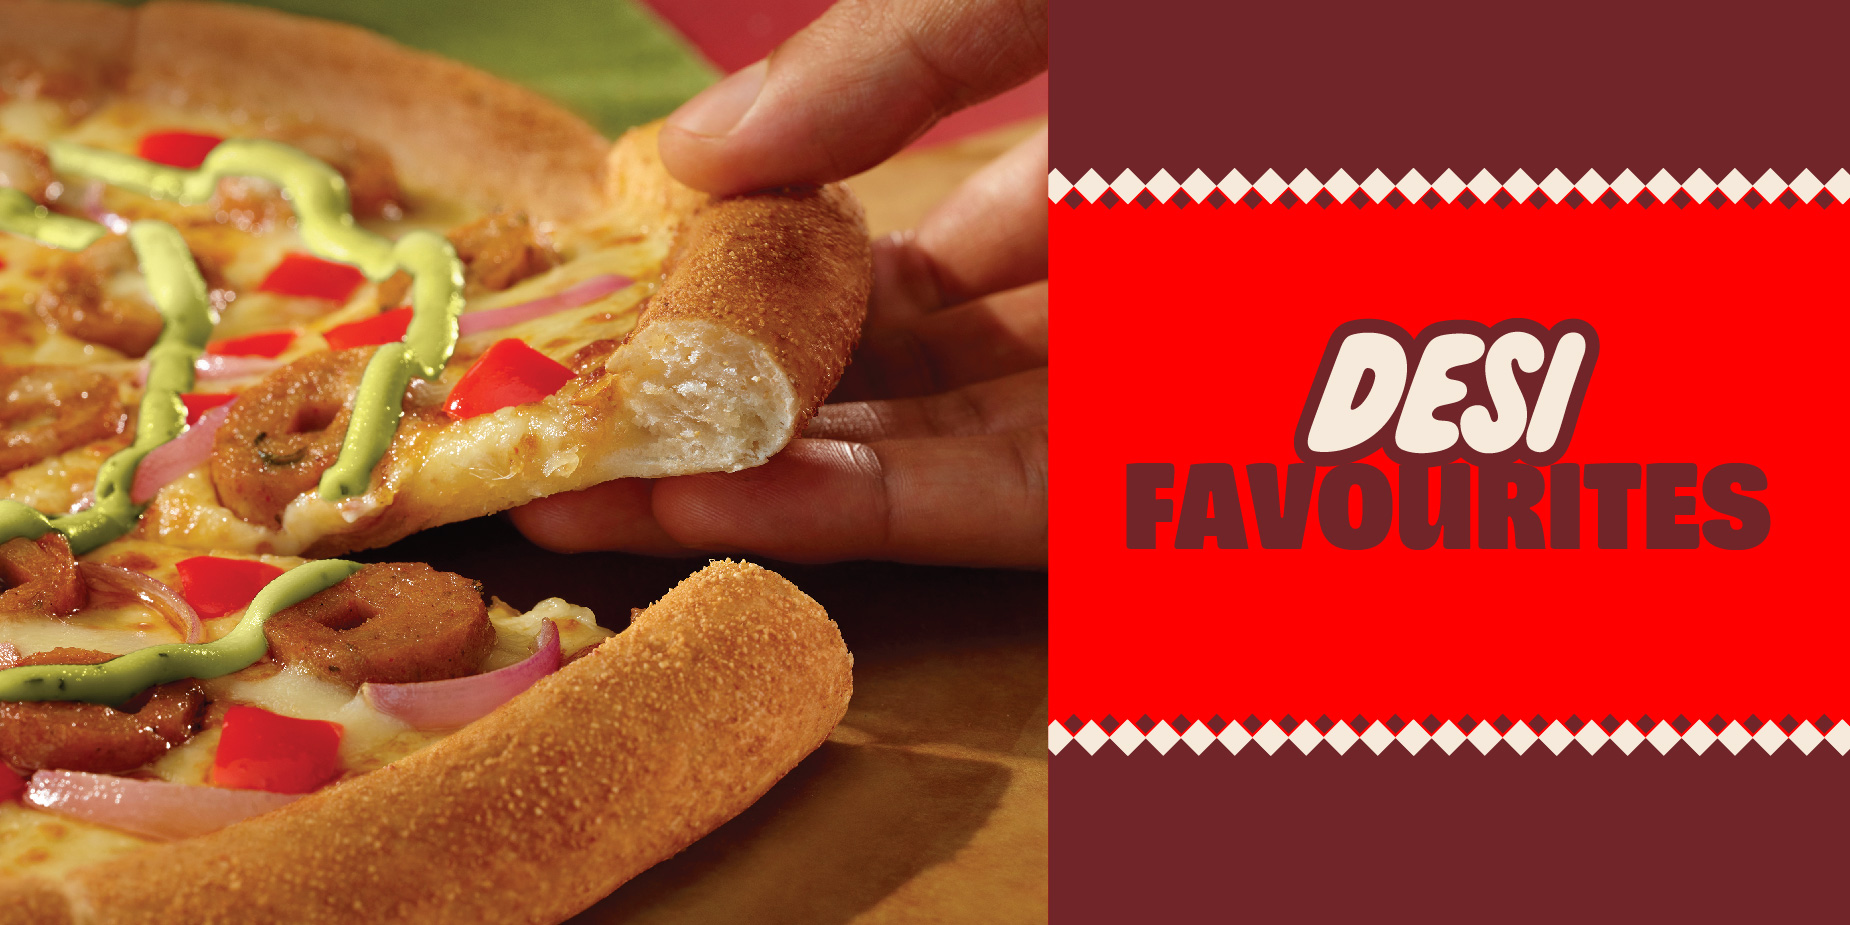
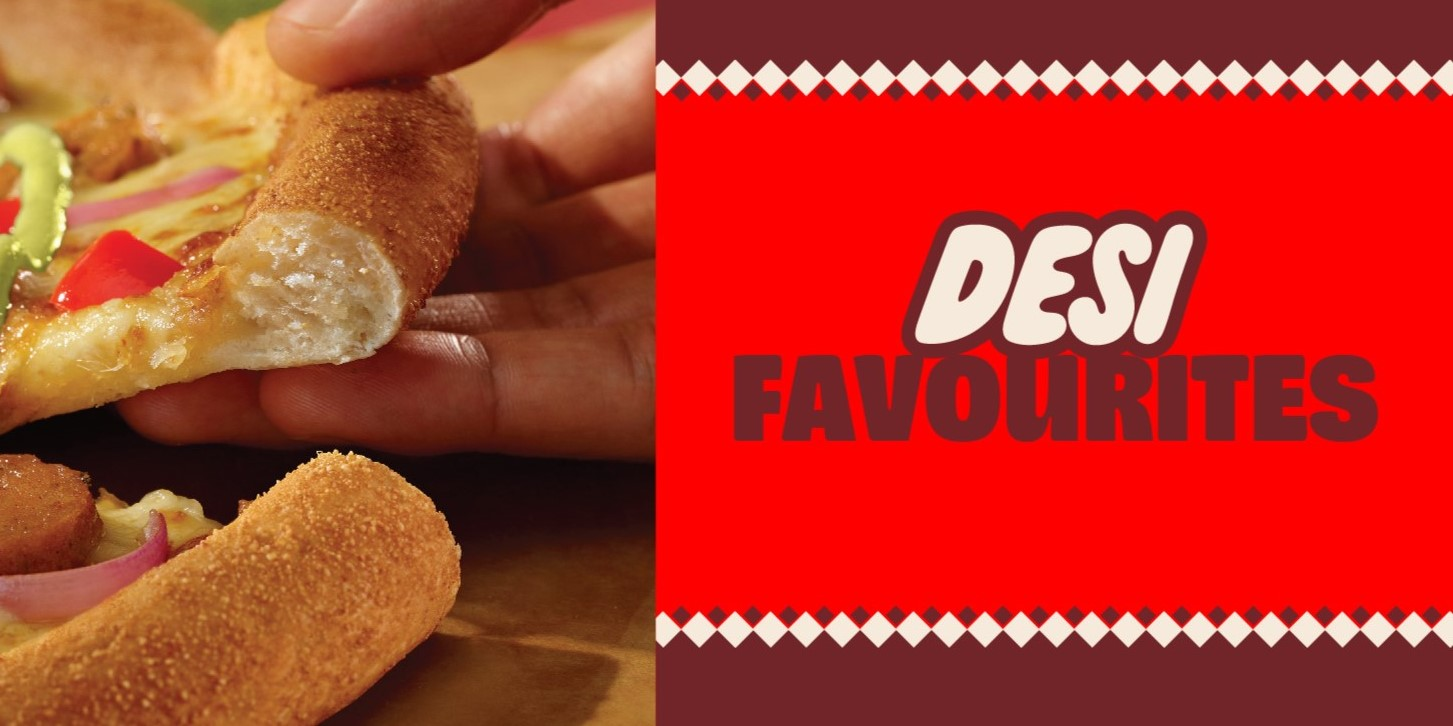
added some static assets and used route grouping to show different layout in differents sections

diff --git a/app/consumer/(customize)/order/pizzas/[pizzaId]/page.tsx b/app/consumer/(customize)/order/pizzas/[pizzaId]/page.tsx
@@ -1,0 +1,178 @@
+"use client";
+
+import { useState } from "react";
+
+export default function PizzaCustomizerPage({
+  params,
+}: {
+  params: Promise<{ pizzaId: string }>;
+}) {
+  const [size, setSize] = useState("Large");
+  const [crust, setCrust] = useState("Original");
+  const [quantity, setQuantity] = useState(1);
+
+  return (
+    <div className="min-h-screen bg-gray-100 flex items-center justify-center p-6">
+      <div className="w-full max-w-6xl bg-white rounded-3xl overflow-hidden shadow-xl">
+        <div className="grid lg:grid-cols-[45%_55%]">
+          {/* LEFT PANEL */}
+          <div className="border-r border-gray-200">
+            <img
+              src="https://images.unsplash.com/photo-1513104890138-7c749659a591"
+              alt="Pizza"
+              className="h-80 w-full object-cover"
+            />
+
+            <div className="p-6">
+              <h1 className="text-4xl font-bold text-gray-900">Margherita</h1>
+
+              <p className="mt-3 text-gray-600">
+                Pizza sauce and molten mozzarella cheese in perfect harmony. A
+                classic favorite for every pizza lover.
+              </p>
+
+              <div className="mt-8">
+                <h3 className="text-lg font-semibold">Allergens</h3>
+
+                <div className="flex gap-3 mt-3">
+                  <span className="px-3 py-1 rounded-full bg-gray-100 text-sm">
+                    Milk
+                  </span>
+
+                  <span className="px-3 py-1 rounded-full bg-gray-100 text-sm">
+                    Wheat
+                  </span>
+
+                  <span className="px-3 py-1 rounded-full bg-gray-100 text-sm">
+                    Soy
+                  </span>
+                </div>
+              </div>
+            </div>
+          </div>
+
+          {/* RIGHT PANEL */}
+          <div className="p-8 flex flex-col">
+            <div className="flex items-center justify-between">
+              <h2 className="text-3xl font-bold">Customize Your Pizza</h2>
+
+              <button className="text-2xl text-gray-500">×</button>
+            </div>
+
+            {/* SIZE */}
+            <div className="mt-6">
+              <h3 className="font-semibold mb-3">Choose Size</h3>
+
+              <div className="grid grid-cols-3 gap-3">
+                {["Small", "Medium", "Large"].map((item) => (
+                  <button
+                    key={item}
+                    onClick={() => setSize(item)}
+                    className={`rounded-xl border p-4 transition ${
+                      size === item
+                        ? "border-green-700 bg-green-50"
+                        : "border-gray-200"
+                    }`}
+                  >
+                    <p className="font-medium">{item}</p>
+                  </button>
+                ))}
+              </div>
+            </div>
+
+            {/* CRUST */}
+            <div className="mt-8">
+              <h3 className="font-semibold mb-3">Choose Crust</h3>
+
+              <div className="space-y-3">
+                {["Original", "Thin Crust", "Cheese Burst"].map((item) => (
+                  <button
+                    key={item}
+                    onClick={() => setCrust(item)}
+                    className={`w-full rounded-xl border p-4 text-left ${
+                      crust === item
+                        ? "border-green-700 bg-green-50"
+                        : "border-gray-200"
+                    }`}
+                  >
+                    {item}
+                  </button>
+                ))}
+              </div>
+            </div>
+
+            {/* TOPPINGS */}
+            <div className="mt-8">
+              <h3 className="font-semibold mb-3">Included Toppings</h3>
+
+              <div className="space-y-3">
+                {["Mozzarella Cheese", "Tomato Sauce", "Oregano"].map(
+                  (item) => (
+                    <div
+                      key={item}
+                      className="border rounded-xl p-4 flex items-center justify-between"
+                    >
+                      <span>{item}</span>
+
+                      <div className="bg-green-800 text-white rounded-lg px-4 py-2 text-sm">
+                        Regular
+                      </div>
+                    </div>
+                  ),
+                )}
+              </div>
+            </div>
+
+            {/* QUANTITY */}
+            <div className="mt-8">
+              <h3 className="font-semibold mb-3">Quantity</h3>
+
+              <div className="flex items-center gap-4">
+                <button
+                  onClick={() => setQuantity((q) => Math.max(1, q - 1))}
+                  className="h-10 w-10 rounded-lg border"
+                >
+                  -
+                </button>
+
+                <span className="text-lg font-medium">{quantity}</span>
+
+                <button
+                  onClick={() => setQuantity((q) => q + 1)}
+                  className="h-10 w-10 rounded-lg border"
+                >
+                  +
+                </button>
+              </div>
+            </div>
+
+            {/* SUMMARY */}
+            <div className="mt-8 border rounded-xl p-4 bg-gray-50">
+              <div className="flex justify-between">
+                <span>Size</span>
+                <span>{size}</span>
+              </div>
+
+              <div className="flex justify-between mt-2">
+                <span>Crust</span>
+                <span>{crust}</span>
+              </div>
+
+              <div className="flex justify-between mt-2">
+                <span>Quantity</span>
+                <span>{quantity}</span>
+              </div>
+            </div>
+
+            {/* ADD TO CART */}
+            <div className="mt-auto pt-8">
+              <button className="w-full bg-green-800 hover:bg-green-900 text-white py-4 rounded-2xl text-lg font-semibold">
+                Add To Cart ₹399
+              </button>
+            </div>
+          </div>
+        </div>
+      </div>
+    </div>
+  );
+}

diff --git a/app/consumer/(customize)/layout.tsx b/app/consumer/(customize)/layout.tsx
@@ -1,0 +1,7 @@
+export default function PizzaCustomizationLayout({
+  children,
+}: {
+  children: React.ReactNode;
+}) {
+  return <>{children}</>;
+}

diff --git a/app/components/Cards/PizzaCard.tsx b/app/components/Cards/PizzaCard.tsx
@@ -1,6 +1,7 @@
 "use client";
 
 import Image from "next/image";
+import { useRouter } from "next/navigation";
 import { useState } from "react";
 
 export default function PizzaCard({
@@ -18,6 +19,7 @@ export default function PizzaCard({
   };
 }) {
   const [size, setSize] = useState("Small");
+  const router = useRouter()
   return (
     <div className="border border-zinc-200 hover:border-zinc-300 transition-colors rounded-xl p-2 flex flex-col w-80">
       {/* Top row: badge + bookmark */}
@@ -108,7 +110,7 @@ export default function PizzaCard({
         <span className="text-sm font-semibold text-neutral-800">
           ₹{item.variants.map((v) => (v.size === size ? v.price : ""))}
         </span>
-        <button className="px-4 py-2 bg-green-900 font-semibold text-white rounded-xl">
+        <button className="px-4 py-2 bg-green-900 font-semibold text-white rounded-xl" onClick={()=>router.push(`pizzas/${item.name}`)}>
           Add To Cart
         </button>
       </div>